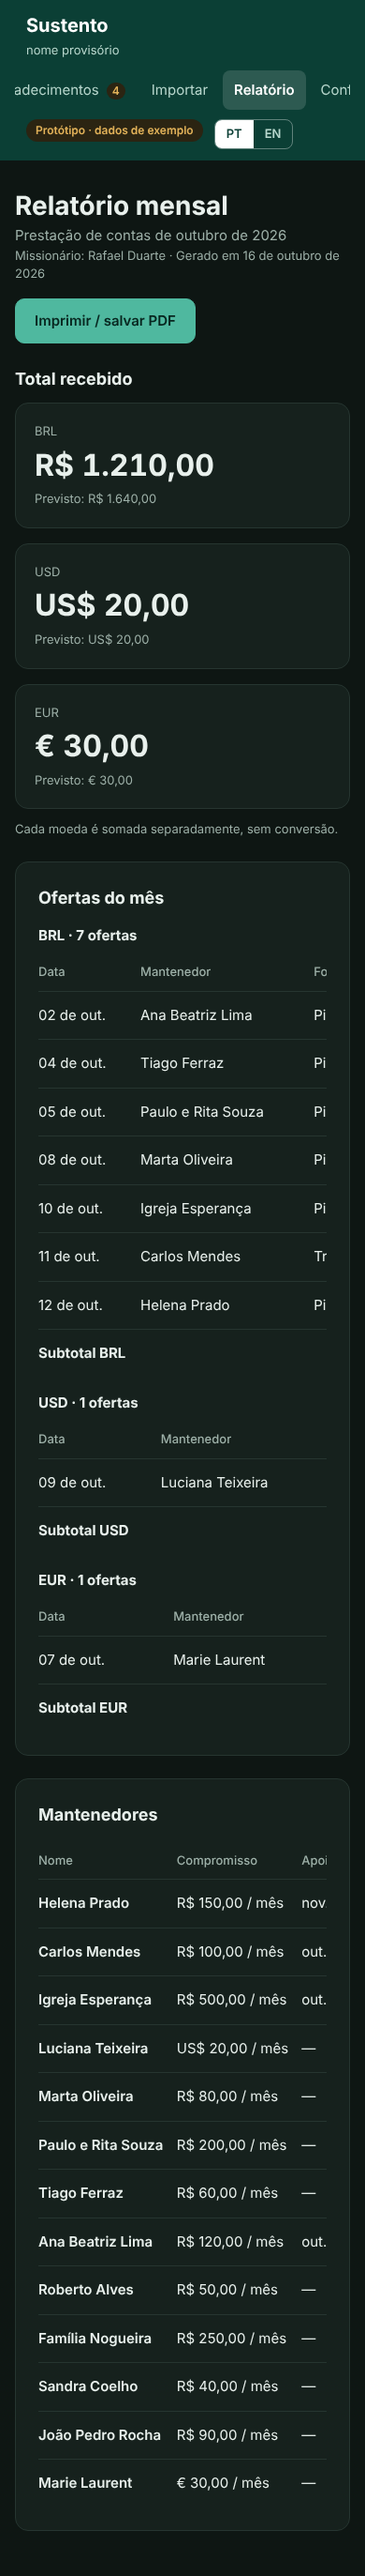
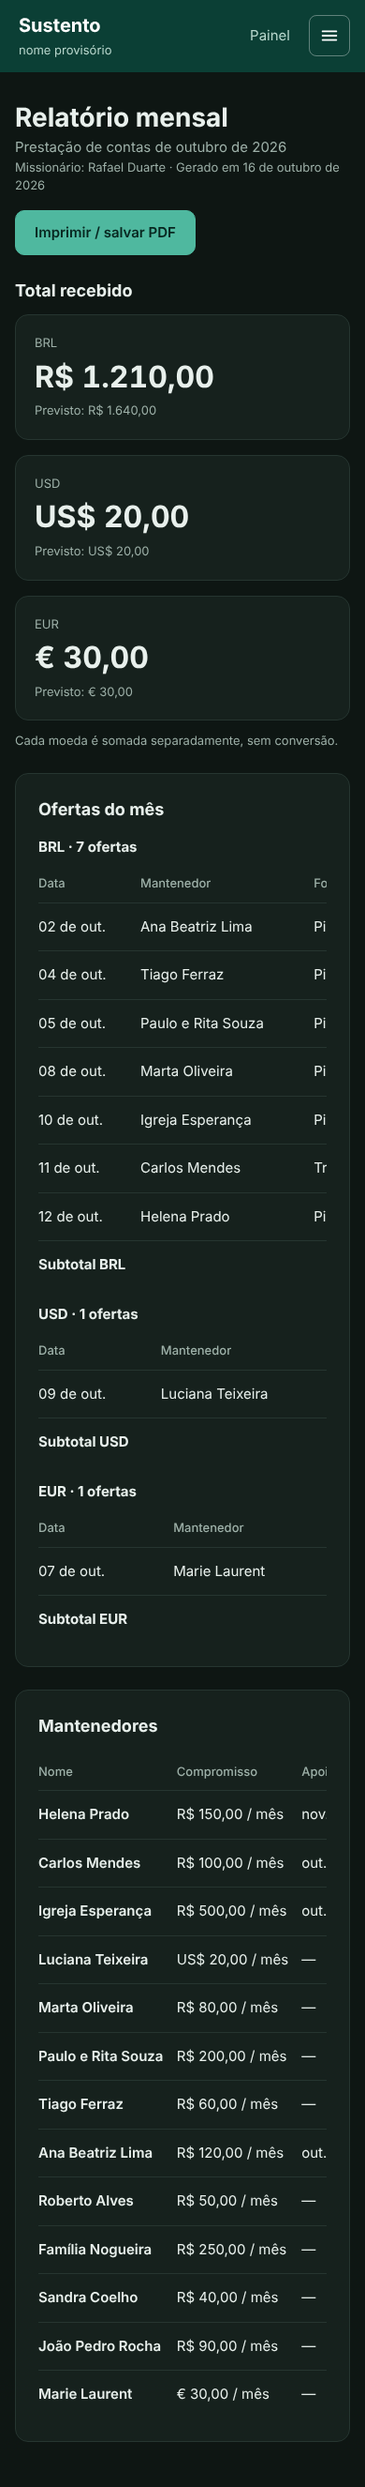
Menu sanduíche no mobile e novo formulário Tally
Painel fica fixo na navbar; demais links, idioma e selo vão para o menu.
Atualiza FEEDBACK_URL e README para o formulário criado na conta correta.

Claude-Session: https://claude.ai/code/session_01KCG3wBVDTFQVAQDYtJbSAg

diff --git a/docs/index.html b/docs/index.html
@@ -34,12 +34,15 @@ body{margin:0;background:var(--bg);color:var(--ink);font-family:var(--font);font
 body::before{content:"";position:fixed;inset:0 0 auto;height:env(safe-area-inset-top,0px);z-index:30;background:var(--side)}
 .app{display:flex;flex-wrap:wrap;align-content:flex-start;min-height:100vh;max-width:100%}
 aside.side{flex:0 0 248px;align-self:stretch;min-width:0;max-width:100%;background:var(--side);color:var(--side-ink);display:flex;flex-direction:column;gap:28px;padding-top:calc(28px + env(safe-area-inset-top,0px));padding-bottom:calc(28px + env(safe-area-inset-bottom,0px));padding-left:max(16px,env(safe-area-inset-left,0px));padding-right:16px}
-.brand{padding:0 12px}
+.bar{display:flex;align-items:center;gap:8px}
+.drawer{flex:1 1 auto;display:flex;flex-direction:column;gap:28px;min-width:0}
+.brand{padding:0 12px;flex:1 1 auto;min-width:0}
+.quick,.burger{display:none}
 .brand b{display:block;font-size:22px;font-weight:700}
 .brand span{font-size:13px;color:var(--side-mute)}
 nav.menu{display:flex;flex-direction:column;gap:4px;min-width:0;max-width:100%}
 nav.menu button{display:block;width:100%;text-align:left;border:0;background:transparent;color:var(--side-mute);font:inherit;padding:10px 12px;border-radius:8px;cursor:pointer}
-nav.menu button[aria-current="page"]{background:var(--side-hl);color:var(--side-ink);font-weight:600}
+nav.menu button[aria-current="page"],.quick[aria-current="page"]{background:var(--side-hl);color:var(--side-ink);font-weight:600}
 .count{display:inline-block;min-width:20px;margin-left:8px;padding:0 6px;border-radius:10px;background:var(--warn-bg);color:var(--warn);font-size:12px;text-align:center;font-weight:600}
 .userbox{margin-top:auto;padding:0 12px;display:flex;flex-direction:column;gap:8px;font-size:13px;color:var(--side-mute)}
 .userbox b{color:var(--side-ink);font-size:15px}
@@ -51,11 +54,19 @@ main{flex:999 1 min(100%,560px);min-width:0;display:flex;flex-direction:column;g
 @media (min-width:808px){main{padding-top:calc(32px + env(safe-area-inset-top,0px))}}
 @media (min-width:900px){main{padding-left:40px;padding-right:max(40px,env(safe-area-inset-right,0px))}}
 @media (max-width:807px){
-  aside.side{flex-basis:100%;gap:10px;padding-top:calc(12px + env(safe-area-inset-top,0px));padding-bottom:12px;padding-right:max(16px,env(safe-area-inset-right,0px))}
-  nav.menu{flex-direction:row;overflow-x:auto;width:100%}
+  aside.side{flex-basis:100%;gap:0;padding-top:calc(12px + env(safe-area-inset-top,0px));padding-bottom:12px;padding-right:max(16px,env(safe-area-inset-right,0px))}
+  .brand{padding:0 4px}
   .brand b{font-size:20px}
-  nav.menu button{width:auto;white-space:nowrap}
-  .userbox{margin-top:0;flex-direction:row;flex-wrap:wrap;align-items:center;gap:8px 12px}
+  .quick{display:block;border:0;background:transparent;color:var(--side-mute);font:inherit;padding:10px 12px;min-height:44px;border-radius:8px;cursor:pointer}
+  .burger{display:inline-flex;align-items:center;justify-content:center;width:44px;height:44px;padding:0;border:1px solid rgba(255,255,255,.35);border-radius:8px;background:transparent;color:var(--side-ink);cursor:pointer}
+  .burger svg{width:22px;height:22px}
+  .burger .x{display:none}
+  aside.side.open .burger .x{display:block}
+  aside.side.open .burger .b{display:none}
+  .drawer{display:none;gap:12px;padding-top:12px}
+  aside.side.open .drawer{display:flex}
+  nav.menu .m-home{display:none}
+  .userbox{margin-top:0;flex-direction:row;flex-wrap:wrap;align-items:center;gap:8px 12px;padding-top:8px;border-top:1px solid var(--side-hl)}
   .userbox .who{display:none}
 }
 h1{margin:0;font-size:28px;line-height:1.2;font-weight:700;text-wrap:balance}
@@ -161,7 +172,15 @@ input[type=checkbox],input[type=radio]{width:20px;height:20px;min-height:0;paddi
 
 <div class="app">
   <aside class="side">
-    <div class="brand"><b>Sustento</b><span id="sub"></span></div>
+    <div class="bar">
+      <div class="brand"><b>Sustento</b><span id="sub"></span></div>
+      <button type="button" class="quick" id="quick" data-a="tab" data-v="home"></button>
+      <button type="button" class="burger" id="burger" data-a="burger" aria-expanded="false" aria-controls="drawer" aria-label="Menu">
+        <svg class="b" viewBox="0 0 24 24" fill="none" stroke="currentColor" stroke-width="2" stroke-linecap="round" aria-hidden="true"><path d="M4 7h16M4 12h16M4 17h16"/></svg>
+        <svg class="x" viewBox="0 0 24 24" fill="none" stroke="currentColor" stroke-width="2" stroke-linecap="round" aria-hidden="true"><path d="M6 6l12 12M18 6L6 18"/></svg>
+      </button>
+    </div>
+    <div class="drawer" id="drawer">
     <nav class="menu" id="menu" aria-label="Seções"></nav>
     <div class="userbox">
       <span class="tag" id="badge"></span>
@@ -171,6 +190,7 @@ input[type=checkbox],input[type=radio]{width:20px;height:20px;min-height:0;paddi
         <button type="button" data-a="lang" data-v="en" id="l-en">EN</button>
       </div>
     </div>
+    </div>
   </aside>
   <main id="view"></main>
 </div>
@@ -179,10 +199,10 @@ input[type=checkbox],input[type=radio]{width:20px;height:20px;min-height:0;paddi
 <script>
 (function(){
 "use strict";
-var FEEDBACK_URL = "https://tally.so/r/bZVNZZ"; /* formulário de pré-cadastro (Tally); vazio = botão oculto. Só funciona depois de publicado. */
+var FEEDBACK_URL = "https://tally.so/r/rDy2AM"; /* formulário de pré-cadastro (Tally); vazio = botão oculto. Só funciona depois de publicado. */
 var I = {
  pt:{sub:"nome provisório",badge:"Protótipo · dados de exemplo",role:"Missionário",reset:"Restaurar exemplo",
-  home:"Painel",sup:"Mantenedores",off:"Ofertas",thx:"Agradecimentos",imp:"Importar",rep:"Relatório",set:"Configurações",
+  menu_open:"Abrir menu",menu_close:"Fechar menu",home:"Painel",sup:"Mantenedores",off:"Ofertas",thx:"Agradecimentos",imp:"Importar",rep:"Relatório",set:"Configurações",
   gm:"Bom dia",ga:"Boa tarde",gn:"Boa noite",summary:"Resumo de ",
   intro_t:"Protótipo para você testar",intro_p:"Tudo aqui é de exemplo; nada é salvo nem enviado pelo sistema. Experimente registrar uma oferta, abrir o agradecimento que nasce dela, importar uma planilha e cadastrar um mantenedor novo.",
   intro_b:"Depois de testar, conte o que faltou ou o que não faria diferença para você.",feedback:"Quero testar quando estiver pronto",
@@ -225,7 +245,7 @@ var I = {
   tpl_bday:function(n,sig){return "Olá, "+n+"!\n\nPassei para te desejar um feliz aniversário. Que Deus abençoe o seu novo ano de vida! Obrigado por caminhar comigo e por tornar este chamado possível.\n\n"+sig;},
   tpl_anniv:function(n,y,sig){return "Olá, "+n+"!\n\nNesta semana completamos "+y+". Quero agradecer a sua fidelidade: cada mês de apoio sustenta o trabalho que Deus me confiou.\n\n"+sig;}},
  en:{sub:"working name",badge:"Prototype · sample data",role:"Missionary",reset:"Reset sample",
-  home:"Dashboard",sup:"Supporters",off:"Gifts",thx:"Thank-yous",imp:"Import",rep:"Report",set:"Settings",
+  menu_open:"Open menu",menu_close:"Close menu",home:"Dashboard",sup:"Supporters",off:"Gifts",thx:"Thank-yous",imp:"Import",rep:"Report",set:"Settings",
   gm:"Good morning",ga:"Good afternoon",gn:"Good evening",summary:"Summary for ",
   intro_t:"A prototype for you to try",intro_p:"Everything here is sample data; nothing is saved or sent by the system. Try logging a gift, opening the thank-you it creates, importing a spreadsheet and adding a new supporter.",
   intro_b:"After trying it, tell us what was missing or what would not matter to you.",feedback:"I want to try it when it is ready",
@@ -269,7 +289,7 @@ var I = {
   tpl_anniv:function(n,y,sig){return "Hello "+n+"!\n\nThis week we complete "+y+". I want to thank you for your faithfulness: every month of support sustains the work God entrusted to me.\n\n"+sig;}}
 };
 var lang="pt", tab="home", backTab="home", sel=null, drafts={}, mode="sug", uid=100, S=[], O=[], filter="", offSid=null, sigCustom=null;
-var goal={amt:3000,cur:"BRL"}, wk={on:false,day:1}, done={}, careSel=null, impText="", impConsent=false;
+var menuOpen=false, goal={amt:3000,cur:"BRL"}, wk={on:false,day:1}, done={}, careSel=null, impText="", impConsent=false;
 var now=new Date(), ym=now.getFullYear()*12+now.getMonth(), today0=new Date(now.getFullYear(),now.getMonth(),now.getDate());
 var CURS=["BRL","USD","EUR"];
 function t(k){return I[lang][k]!==undefined?I[lang][k]:k;}
@@ -377,9 +397,15 @@ function renderChrome(){
  document.getElementById("l-pt").setAttribute("aria-pressed",lang==="pt");
  document.getElementById("l-en").setAttribute("aria-pressed",lang==="en");
  var pc=pendingList().length, nk=navKey();
+ var side=document.querySelector("aside.side");
+ side.classList.toggle("open",menuOpen);
+ document.getElementById("burger").setAttribute("aria-expanded",menuOpen);
+ document.getElementById("burger").setAttribute("aria-label",t(menuOpen?"menu_close":"menu_open"));
+ var q=document.getElementById("quick");q.textContent=t("home");
+ if(nk==="home")q.setAttribute("aria-current","page");else q.removeAttribute("aria-current");
  var items=[["home",t("home")],["sup",t("sup")],["off",t("off")],["thx",t("thx")],["imp",t("imp")],["rep",t("rep")],["set",t("set")]];
  document.getElementById("menu").innerHTML=items.map(function(x){
-  return '<button type="button" data-a="tab" data-v="'+x[0]+'"'+(nk===x[0]?' aria-current="page"':"")+">"+x[1]+(x[0]==="thx"&&pc?'<span class="count">'+pc+"</span>":"")+"</button>";
+  return '<button type="button"'+(x[0]==="home"?' class="m-home"':"")+' data-a="tab" data-v="'+x[0]+'"'+(nk===x[0]?' aria-current="page"':"")+">"+x[1]+(x[0]==="thx"&&pc?'<span class="count">'+pc+"</span>":"")+"</button>";
  }).join("");
 }
 function greet(){var h=now.getHours();return t(h<12?"gm":h<18?"ga":"gn");}
@@ -685,7 +711,7 @@ function render(){
  var views={home:viewHome,sup:viewSup,off:viewOff,thx:viewThx,imp:viewImp,rep:viewRep,set:viewSet,newSup:viewNewSup,newOff:viewNewOff,care:viewCare};
  v.innerHTML=views[tab]();
 }
-function go(name){if(name!=="newSup"&&name!=="newOff"&&name!=="care")backTab=name;tab=name;render();window.scrollTo(0,0);}
+function go(name){menuOpen=false;if(name!=="newSup"&&name!=="newOff"&&name!=="care")backTab=name;tab=name;render();window.scrollTo(0,0);}
 function toast(m){
  var el=document.getElementById("toast");el.textContent=m;el.hidden=false;
  clearTimeout(toast.tm);toast.tm=setTimeout(function(){el.hidden=true;},3200);
@@ -695,6 +721,7 @@ document.addEventListener("click",function(e){
  var b=e.target.closest("[data-a]");if(!b)return;
  var a=b.getAttribute("data-a"), v=b.getAttribute("data-v");
  if(a==="tab"){go(v);}
+ else if(a==="burger"){menuOpen=!menuOpen;renderChrome();}
  else if(a==="lang"){lang=v;render();}
  else if(a==="reset"){seed();filter="";go("home");toast(t("reset_ok"));}
  else if(a==="newSup"){go("newSup");}
@@ -721,6 +748,12 @@ document.addEventListener("click",function(e){
   impText="";impConsent=false;filter="";go("sup");toast(t("imp_done").replace("{n}",ok.length).replace("{m}",skipped));
  }
  else if(a==="print"){window.print();}
+});
+document.addEventListener("keydown",function(e){
+ if(e.key==="Escape"&&menuOpen){menuOpen=false;renderChrome();document.getElementById("burger").focus();}
+});
+document.addEventListener("click",function(e){
+ if(menuOpen&&!e.target.closest("aside.side")){menuOpen=false;renderChrome();}
 });
 document.addEventListener("input",function(e){
  var el=e.target;

diff --git a/README.md b/README.md
@@ -6,6 +6,8 @@ Protótipo clicável de um app para missionários cuidarem dos seus mantenedores
 
 👉 **Experimente:** https://andrescultori.github.io/sustento-missionario/
 
+📝 **Pré-cadastro (teste de interesse):** https://tally.so/r/rDy2AM — o link só funciona depois que o formulário for publicado.
+
 ## Como é feito
 
 Um único arquivo estático, `docs/index.html` (HTML + CSS + JS puro, PT/EN, tema claro/escuro). Sem build, sem dependências, sem backend. O GitHub Pages serve a pasta `docs/` da branch `main`.
